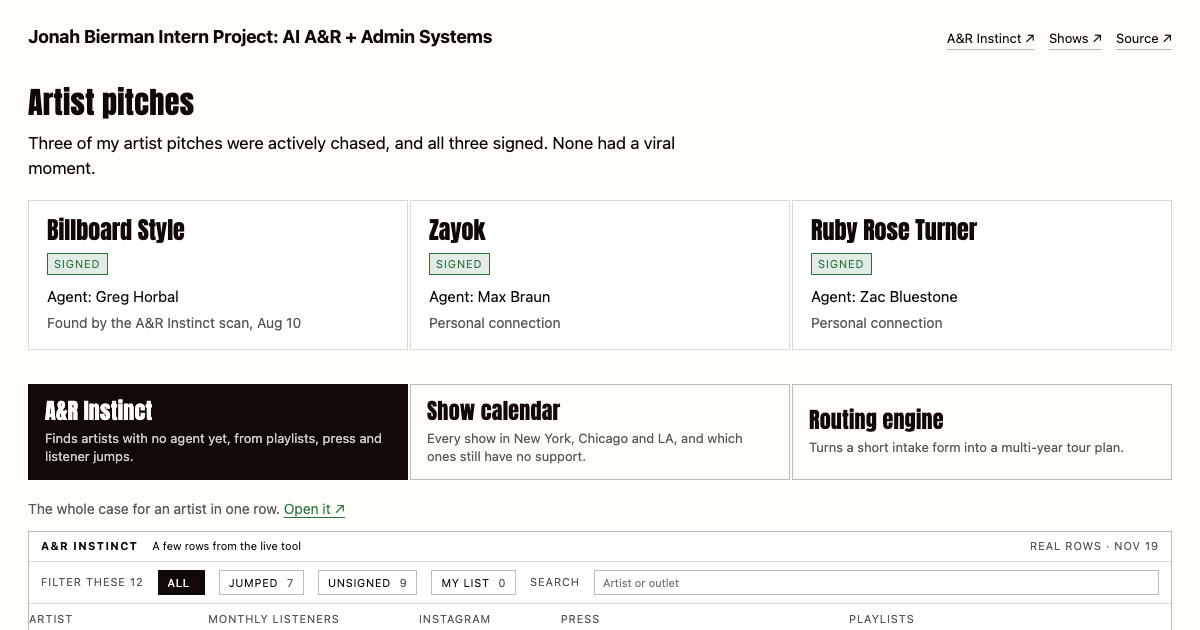
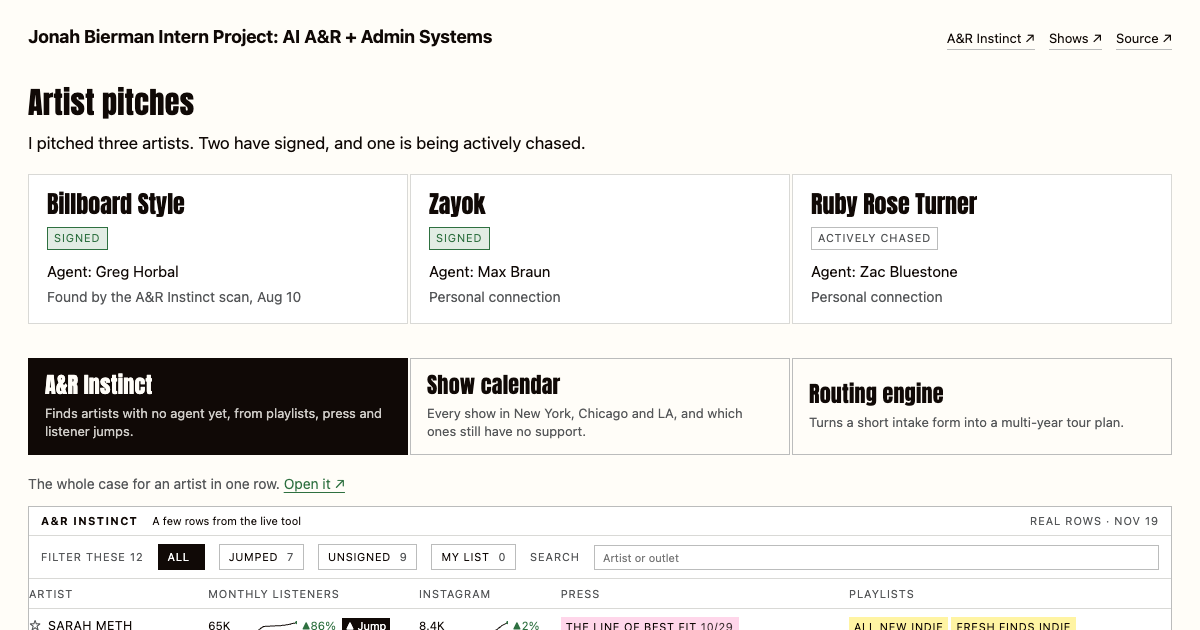
Pitches: two signed, one actively chased; drop viral line

Changed region(s): [[0.0, 0.2111, 0.9867, 1.0], [0.6475, 0.6032, 0.9558, 0.7238]]

diff --git a/index.html b/index.html
@@ -252,13 +252,13 @@
   <main id="main" tabindex="-1">
   <section class="pitches" aria-labelledby="pi-h">
     <h2 id="pi-h">Artist pitches</h2>
-    <p>Three of my artist pitches were actively chased, and all three signed. None had a viral moment.</p>
+    <p>I pitched three artists. Two have signed, and one is being actively chased.</p>
     <ul class="pitch-list">
       <li><span class="who">Billboard Style</span><span class="st">Signed</span>
         <span class="to">Agent: Greg Horbal</span><span class="how">Found by the A&amp;R Instinct scan, Aug 10</span></li>
       <li><span class="who">Zayok</span><span class="st">Signed</span>
         <span class="to">Agent: Max Braun</span><span class="how">Personal connection</span></li>
-      <li><span class="who">Ruby Rose Turner</span><span class="st">Signed</span>
+      <li><span class="who">Ruby Rose Turner</span><span class="st prog">Actively chased</span>
         <span class="to">Agent: Zac Bluestone</span><span class="how">Personal connection</span></li>
     </ul>
   </section>
